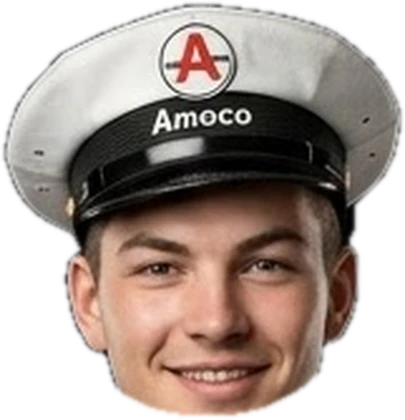
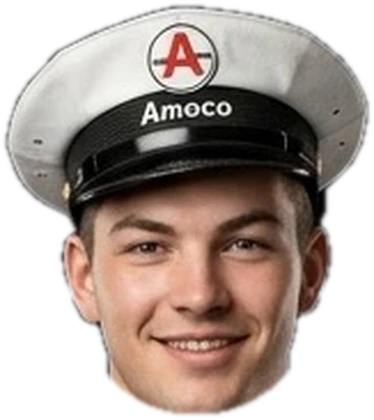
4.13 : tête du pompiste recadrée, menton entier
Claude-Session: https://claude.ai/code/session_01WYc8bcxVUTnPR8YQxCHawi

diff --git a/public/index.html b/public/index.html
@@ -2874,6 +2874,7 @@
 
   /* ===== Version de l'appli et nouveautés (la plus récente en premier) ===== */
   const VERSIONS = [
+    ["4.13", "13 octobre 2026", ["Hill Valley : la tête du pompiste recadrée, le menton entier"]],
     ["4.12", "13 octobre 2026", ["Hill Valley : un pick-up Ford F-1 rouge (1948-52), logo TEXACO sur les portières, garé sur le trottoir devant la porte verte du garage Texaco", "Hill Valley : le pompiste, casquette et combinaison blanche à col rayé, près des pompes (il propose le plein) ; réglable par l'administrateur comme les autres", "Lou's Cafe : « CALL ME — 555-1990 — KISS » écrit au rouge à lèvres sur le mur, à côté de la cabine", "Salle des fêtes : quand passe The Cure, un spectacle laser vert sur le mur du fond — « THE CURE » en vert néon dans un ovale de faisceaux qui bougent", "Passage sous le porche : une porte au milieu du mur de droite, et le garde de 1887 à côté", "La DeLorean ne fige plus l'image en sortant du préau (Hill Valley se prépare sous le flash blanc)"]],
     ["4.11", "13 octobre 2026", ["Hill Valley : Doc annonce la même date que le tableau de bord de la DeLorean, le 14 juillet 1955"]],
     ["4.10", "13 octobre 2026", ["Cabine téléphonique : éclairs et fumée, on disparaît, le combiné pend seul au bout de son cordon et se balance… puis on arrive dans la fumée (à l'aller comme au retour)", "Salle des fêtes : le cercle des petites marches mène directement dans la salle du bar (plus d'arrêt dans le vestibule)", "Les cercles de passage au sol sont plus petits", "En plein écran, les danses passent en bas à droite : la discussion ne les cache plus", "La version s'affiche sous « Pas encore inscrit ? »"]],

diff --git a/public/sw.js b/public/sw.js
@@ -1,7 +1,7 @@
 // Service worker : permet d'installer l'appli (Android, iPhone, PC) et de l'ouvrir sans réseau.
 // Les pages sont servies « réseau d'abord » (toujours la dernière version), les images « cache d'abord ».
 // Le courrier et le registre (/api/) ne sont jamais mis en cache.
-const CACHE = "caserne-nf-v231";
+const CACHE = "caserne-nf-v232";
 const SHELL = ["/", "/images/garde.jpg", "/images/pierre.jpg", "/images/escaliers/brique.jpg", "/manifest.webmanifest", "/icons/icon-192.png"];
 
 self.addEventListener("install", e => {
